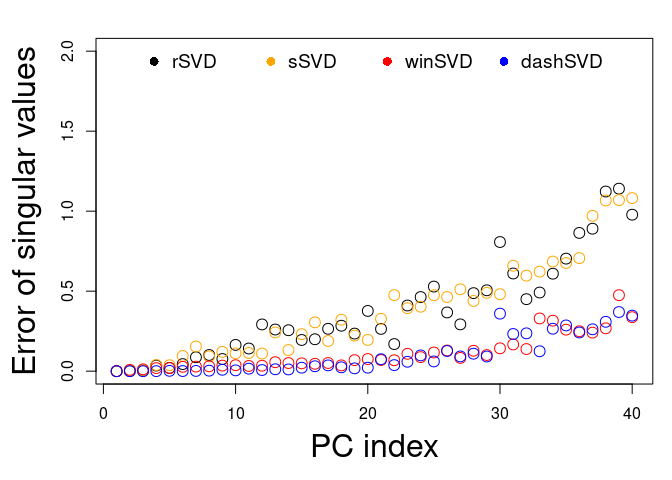
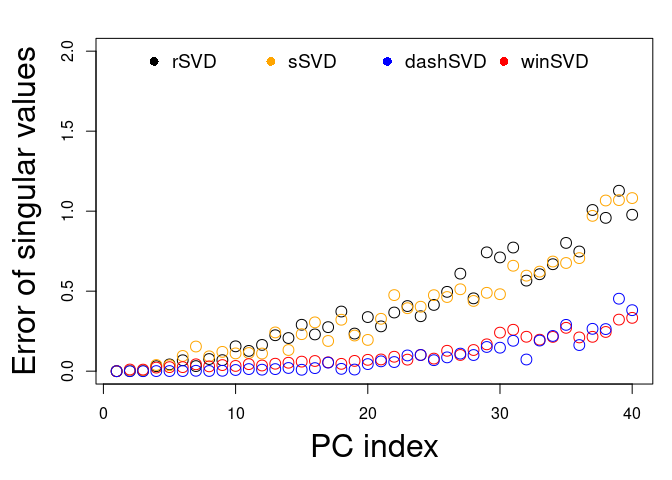
optimize winSVD

diff --git a/inst/include/RsvdEigen.hpp b/inst/include/RsvdEigen.hpp
@@ -259,8 +259,13 @@ class RsvdOpOnePass
                         H2.noalias() += mat.middleRows(start_idx, actual_block_size).transpose()
                                         * G.middleRows(start_idx, actual_block_size);
                 }
-                if( (b+1) < band || ((b % (uint32_t)std::pow(2, pi) != (uint32_t)std::pow(2, pi) - 1) && (b != (batchs - 1))))
-                    continue;
+
+                // use the first quarter band of succesive iteration (H1)
+                // for extra power iteration updates with the last used band (H2)
+                const bool adjacent =
+                  (pi > 0 && (b + 1) == std::pow(2, pi - 1) && std::pow(2, pi) < batchs);
+                if ((b + 1) < band && !adjacent) continue;
+                if(!((i == band) || (i == band / 2) || adjacent)) continue;
                 H = H1 + H2;
                 Eigen::HouseholderQR<MatrixType> qr(H);
                 Omg.noalias() = qr.householderQ() * MatrixType::Identity(cols(), size);
@@ -269,9 +274,7 @@ class RsvdOpOnePass
                 {
                     H1.setZero();
                     i = 0;
-                }
-                if(i == band / 2)
-                {
+                } else {
                     H2.setZero();
                 }
             }
@@ -347,7 +350,7 @@ class RsvdOnePass
 
         // R.T * B = H.T => lapack dtrtrs()
         MatrixType B = R.transpose().fullPivHouseholderQr().solve(H.transpose());
-        Eigen::BDCSVD<MatrixType> svd(B, Eigen::ComputeThinU | Eigen::ComputeThinV);
+        Eigen::JacobiSVD<MatrixType> svd(B, Eigen::ComputeThinU | Eigen::ComputeThinV);
         b_leftSingularVectors.noalias() = G * svd.matrixU().leftCols(k);
         b_rightSingularVectors = svd.matrixV().leftCols(k);
         b_singularValues = svd.singularValues().head(k);

diff --git a/README.md b/README.md
@@ -21,7 +21,6 @@ ordered by their accuracy.
 
 ## Installation
 
-
 ``` r
 # install.packages("pcaone") # For the CRAN version
 remotes::install_github("Zilong-Li/PCAoneR") # For the latest developing version
@@ -37,9 +36,9 @@ mat <- matrix(rnorm(100*5000), 5000, 100)
 res <- pcaone(mat, k = 10)
 str(res)
 #> List of 3
-#>  $ d: num [1:10] 80 79.5 79.1 79 78.6 ...
-#>  $ u: num [1:5000, 1:10] -0.0187 0.01282 0.00819 0.01606 0.00111 ...
-#>  $ v: num [1:100, 1:10] -0.0925 -0.0236 -0.1496 -0.0353 0.0525 ...
+#>  $ d: num [1:10] 81 80.3 79.5 79.5 79.3 ...
+#>  $ u: num [1:5000, 1:10] 0.02376 0.01619 0.00688 0.01737 0.00316 ...
+#>  $ v: num [1:100, 1:10] -0.0608 -0.0074 -0.0329 -0.0271 0.0213 ...
 #>  - attr(*, "class")= chr "pcaone"
 ```
 
@@ -47,7 +46,7 @@ str(res)
 
 We define the accuracy as the error of singular values using results of
 `RSpectra::svds` as truth. For all RSVD, let’s restrict the number of
-epochs as 7, i.e. how many times the whole matrix is read through if it
+epochs as 8, i.e. how many times the whole matrix is read through if it
 can only be hold on disk.
 
 ``` r
@@ -59,26 +58,26 @@ A <- popgen - rowMeans(popgen) ## center
 k <- 40
 system.time(s0 <- RSpectra::svds(A, k = k) )
 #>    user  system elapsed 
-#>  29.327   6.687   1.528
-system.time(s1 <- rsvd::rsvd(A, k = k, q = 4))  ## the number of epochs is 4*2=8
+#>  28.247   1.710   1.258
+system.time(s1 <- rsvd::rsvd(A, k = k, q = 4))  ## the number of epochs is two times of power iters, 4*2=8
 #>    user  system elapsed 
-#>  10.674  22.568   1.955
-system.time(s2 <- pcaone(A, k = k, method = "ssvd"))
+#>   8.826  15.496   1.225
+system.time(s2 <- pcaone(A, k = k, method = "ssvd", p = 8))
 #>    user  system elapsed 
-#>   6.961   3.461   0.437
-system.time(s3 <- pcaone(A, k = k, method = "winsvd"))
+#>   6.660   5.916   0.954
+system.time(s3 <- pcaone(A, k = k, method = "winsvd", p = 8))
 #>    user  system elapsed 
-#>   9.868   9.518   0.957
-system.time(s4 <- pcaone(A, k = k, method = "dashsvd"))
+#>  11.112   8.740   0.956
+system.time(s4 <- pcaone(A, k = k, method = "dashsvd", p = 6)) ## the number of epochs is 2 + power iters
 #>    user  system elapsed 
-#>  11.842  14.117   2.280
+#>  10.654  12.905   1.792
 
 par(mar = c(5, 5, 2, 1))
 plot(s0$d-s1$d, ylim = c(0, 10), xlab = "PC index", ylab = "Error of singular values", cex = 1.5, cex.lab = 2)
 points(s0$d-s2$d, col = "orange", cex = 1.5)
 points(s0$d-s3$d, col = "red", cex = 1.5)
 points(s0$d-s4$d, col = "blue", cex = 1.5)
-legend("top", legend = c("rSVD", "sSVD", "winSVD", "dashSVD"), pch = 16,col = c("black", "orange", "red", "blue"), horiz = T, cex = 1.2, bty = "n" )
+legend("top", legend = c("rSVD", "sSVD", "dashSVD", "winSVD"), pch = 16,col = c("black", "orange", "blue", "red"), horiz = T, cex = 1.2, bty = "n" )
 ```
 
 <img src="man/figures/README-acc-1.png" width="100%" />
@@ -89,20 +88,20 @@ to reach the accuracy of `winSVD`.
 ``` r
 system.time(s1 <- rsvd::rsvd(A, k = k, q = 20))  ## the number of epochs is 4*20=40
 #>    user  system elapsed 
-#>  34.556  53.571   4.203
+#>  33.213  57.589   4.874
 system.time(s2 <- pcaone(A, k = k, method = "ssvd", p = 20))
 #>    user  system elapsed 
-#>  15.759   5.670   0.899
+#>  15.453   5.560   0.881
 system.time(s4 <- pcaone(A, k = k, method = "dashsvd", p = 20))
 #>    user  system elapsed 
-#>  31.030  40.201   4.903
+#>  30.136  37.707   4.358
 
 par(mar = c(5, 5, 2, 1))
 plot(s0$d-s1$d, ylim = c(0, 2), xlab = "PC index", ylab = "Error of singular values", cex = 1.5, cex.lab = 2)
 points(s0$d-s2$d, col = "orange", cex = 1.5)
 points(s0$d-s3$d, col = "red", cex = 1.5)
 points(s0$d-s4$d, col = "blue", cex = 1.5)
-legend("top", legend = c("rSVD", "sSVD", "winSVD", "dashSVD"), pch = 16,col = c("black", "orange", "red", "blue"), horiz = T, cex = 1.2, bty = "n" )
+legend("top", legend = c("rSVD", "sSVD", "dashSVD", "winSVD"), pch = 16,col = c("black", "orange", "blue", "red"), horiz = T, cex = 1.2, bty = "n" )
 ```
 
 <img src="man/figures/README-acc2-1.png" width="100%" />
@@ -119,15 +118,15 @@ timing <- microbenchmark(
   'pcaone.winsvd' = pcaone(A, k=k, p = 7),
   'pcaone.ssvd' = pcaone(A, k=k, p = 20, method = "ssvd"),
   'pcaone.dashsvd' = pcaone(A, k=k, p = 20, method = "dashsvd"),
-  times=5)
+  times=10)
 print(timing, unit='s')
 #> Unit: seconds
-#>            expr       min        lq     mean   median       uq      max neval
-#>        RSpectra 1.3405160 1.4557409 1.624167 1.506560 1.537043 2.280976     5
-#>            rSVD 3.7770404 4.2052743 5.405628 5.400490 6.323018 7.322318     5
-#>   pcaone.winsvd 0.8201352 0.9213472 1.425965 1.631140 1.742322 2.014879     5
-#>     pcaone.ssvd 0.8309767 0.9813462 1.788951 2.087639 2.398111 2.646681     5
-#>  pcaone.dashsvd 5.1641422 5.2611238 5.499963 5.598988 5.629761 5.845800     5
+#>            expr       min        lq     mean    median       uq      max neval
+#>        RSpectra 1.2408488 1.4194163 1.766091 1.6250544 2.060196 2.908666    10
+#>            rSVD 4.1430016 4.4327371 5.105631 4.9439714 5.785335 6.443811    10
+#>   pcaone.winsvd 0.8368182 0.9249775 1.059625 0.9889866 1.076512 1.478980    10
+#>     pcaone.ssvd 0.8181878 1.0357433 1.434357 1.0795606 1.906965 2.783159    10
+#>  pcaone.dashsvd 4.7534786 5.0128576 5.295586 5.2492082 5.742555 5.798519    10
 ```
 
 ## References
